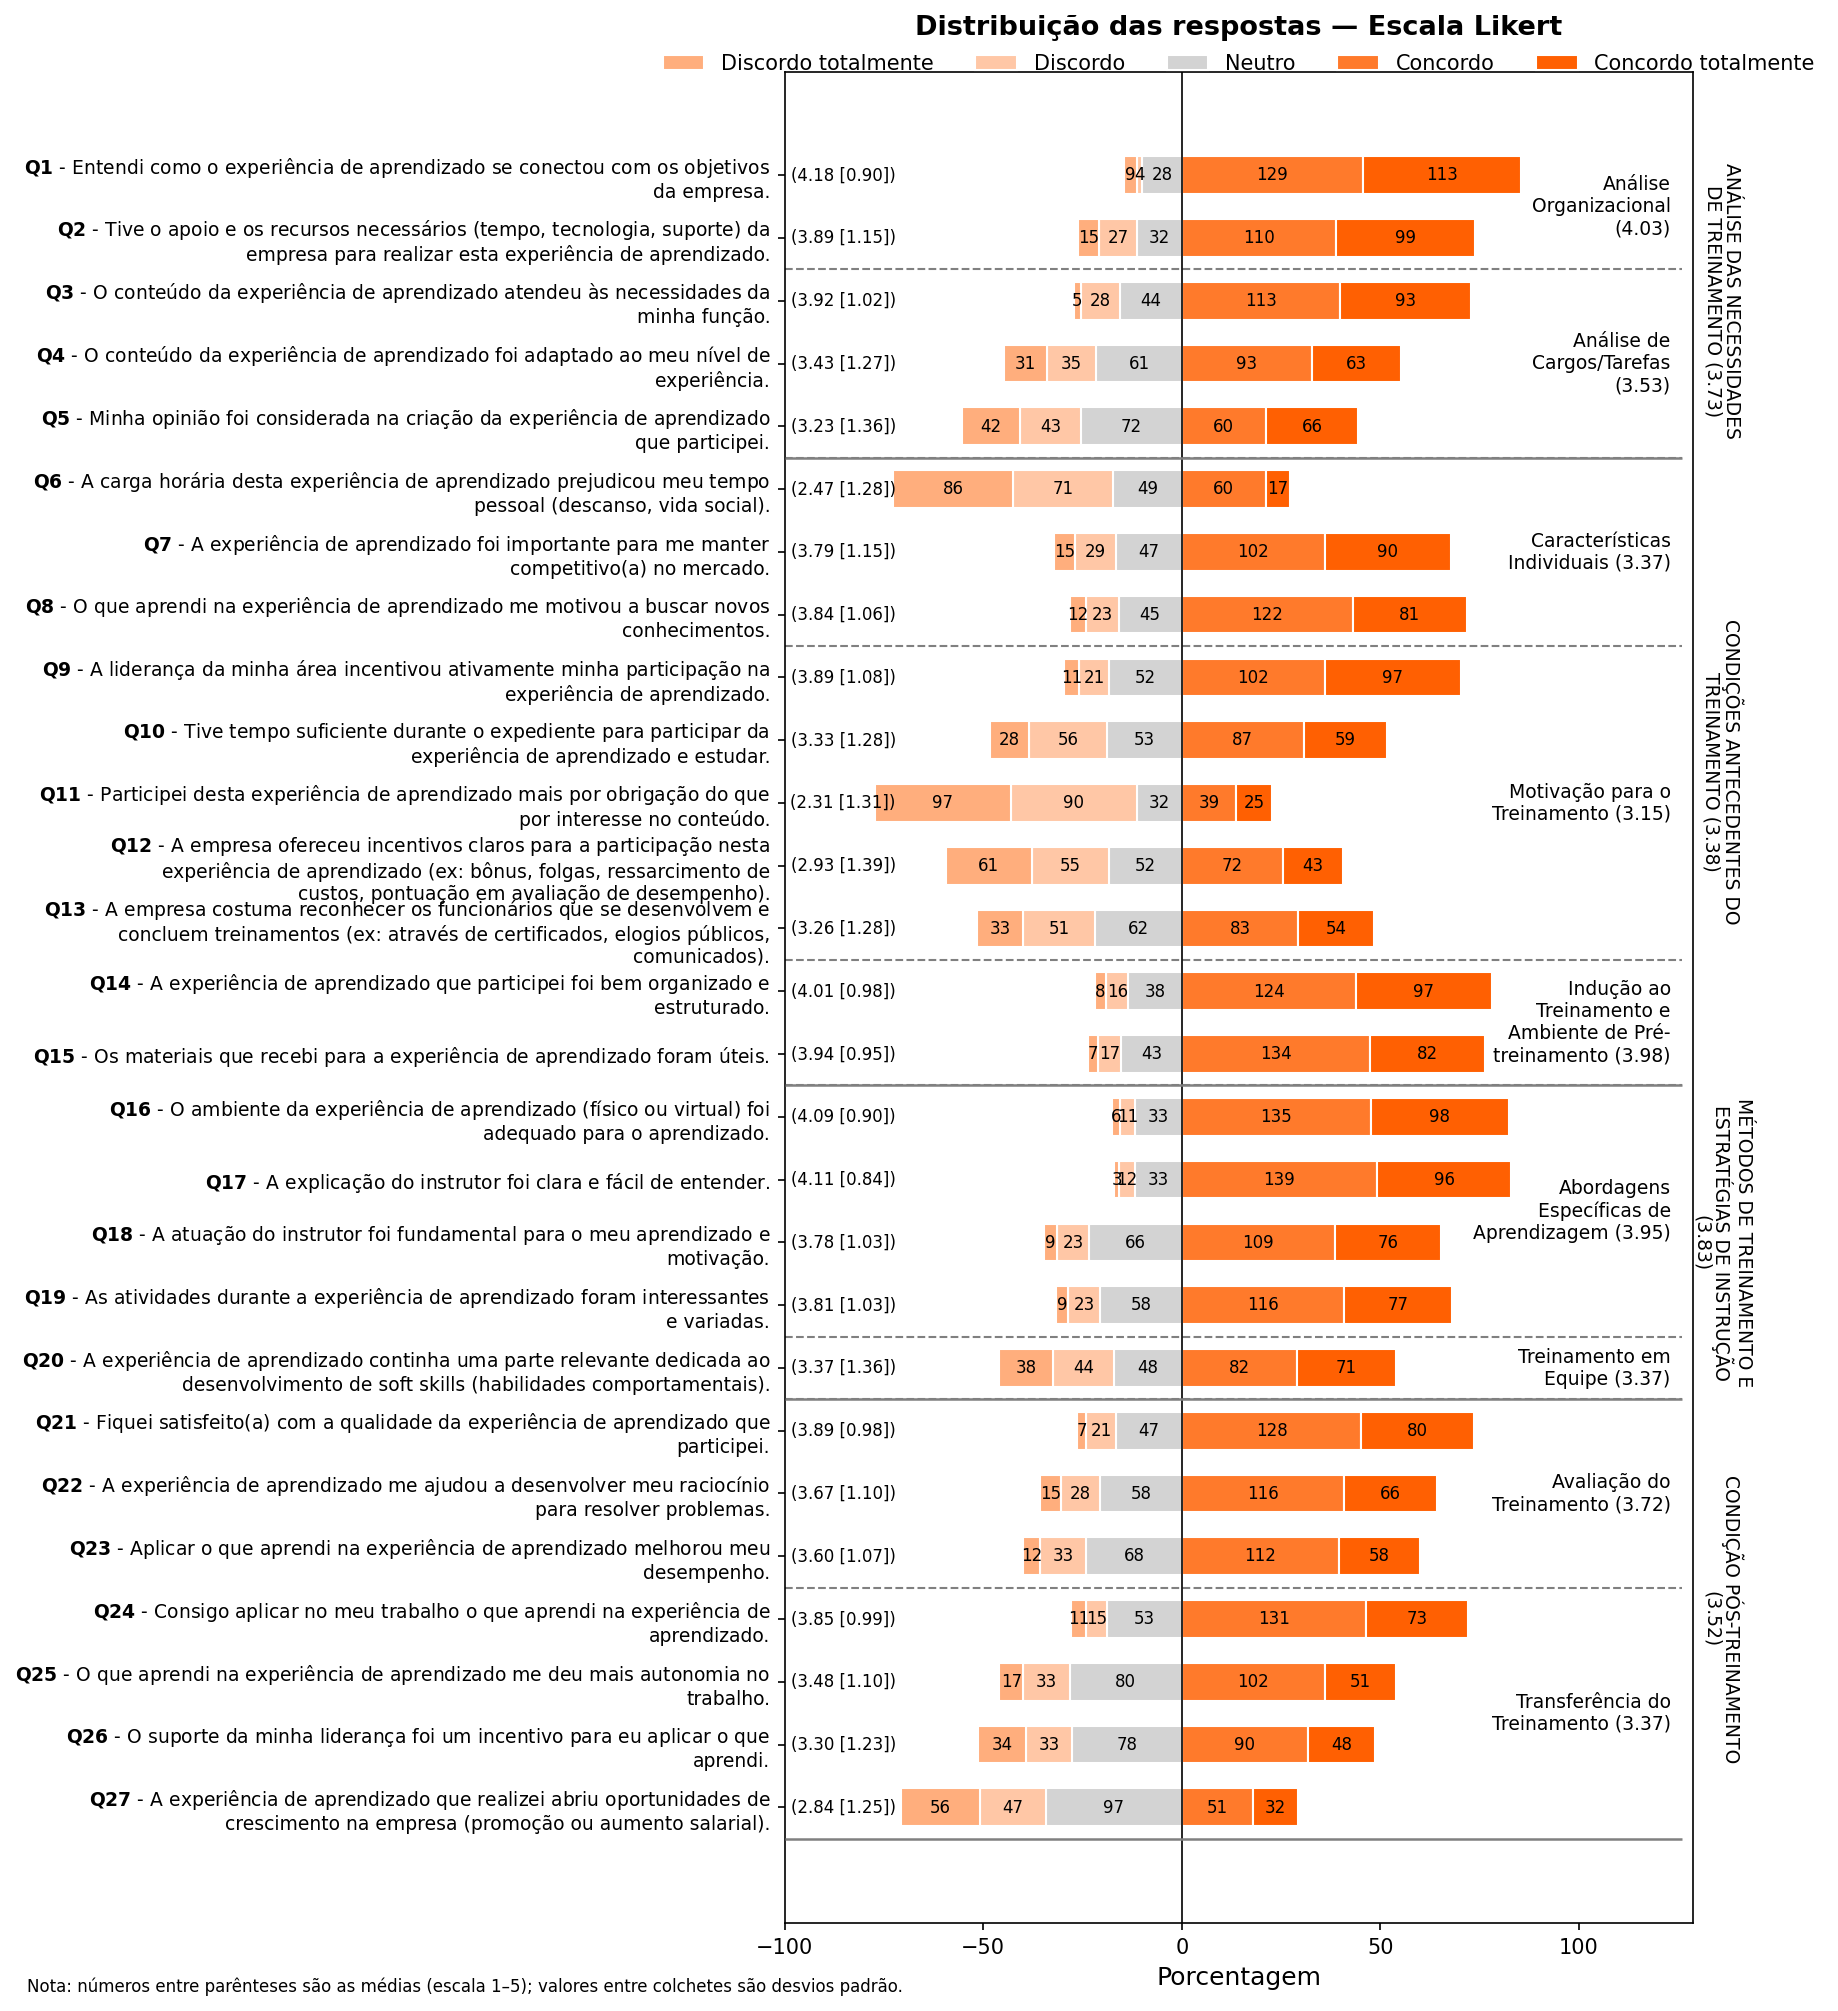
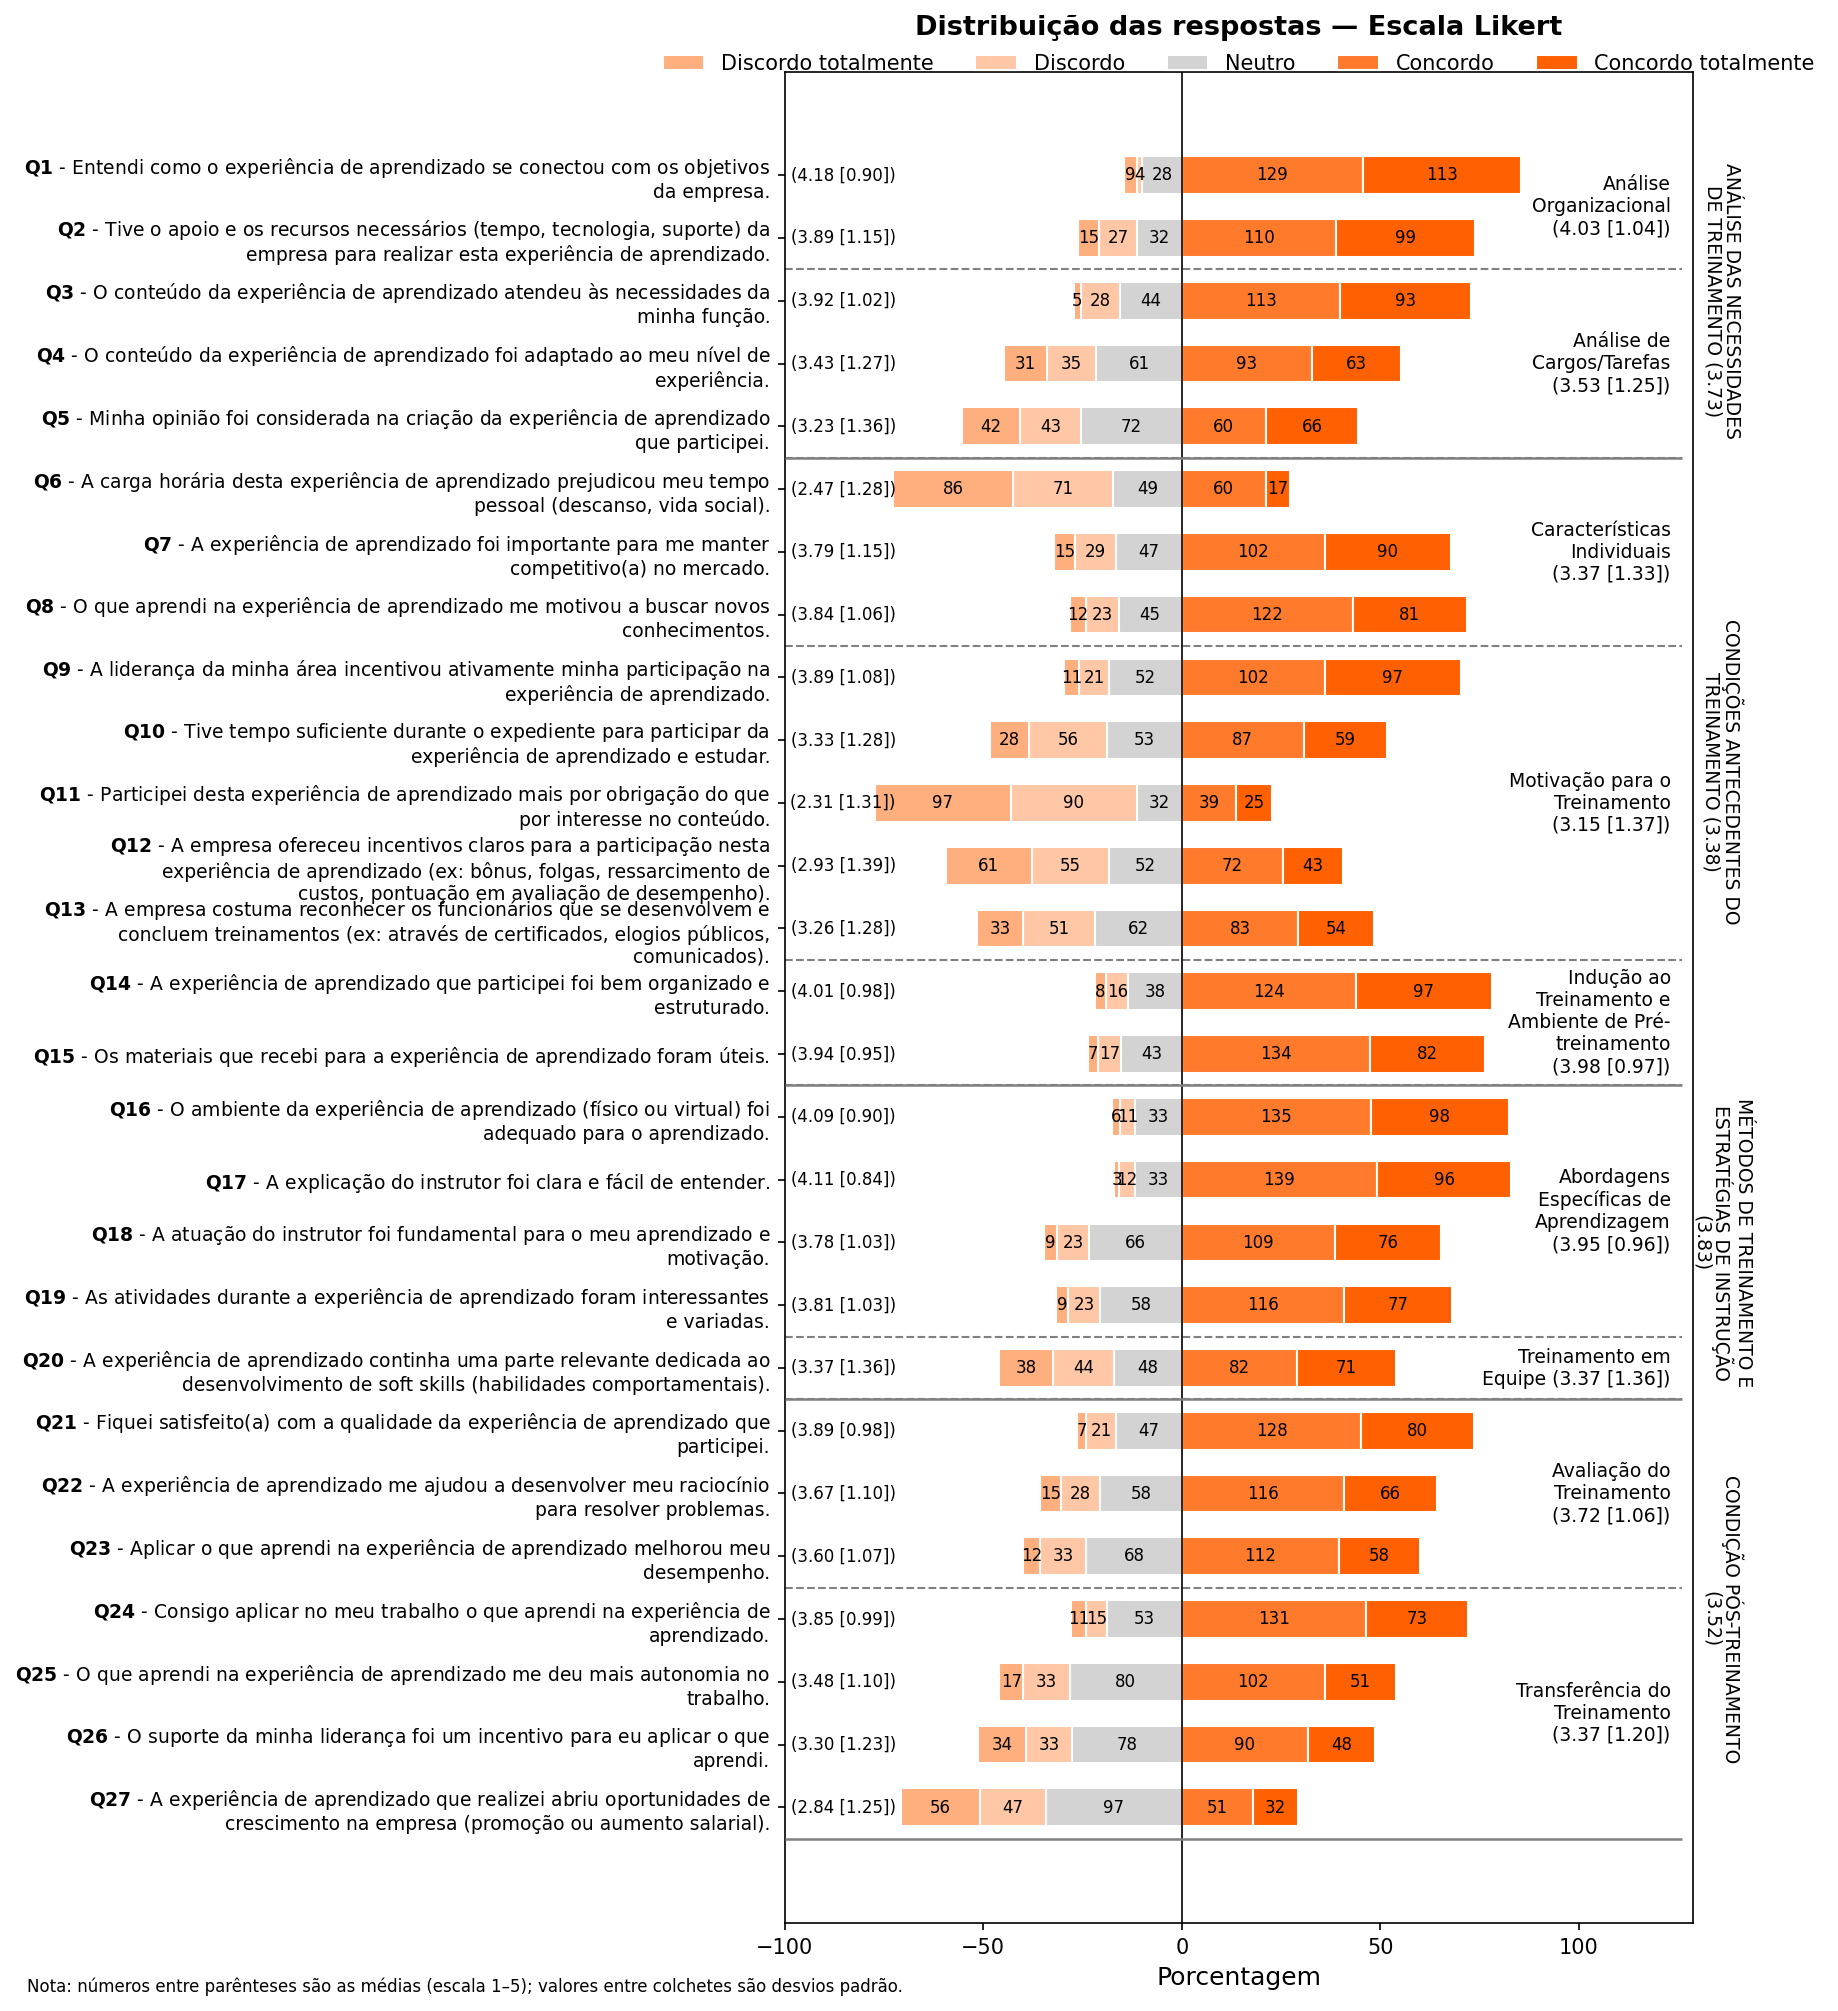
correlação

diff --git a/questions/correlacao.py b/questions/correlacao.py
@@ -1,0 +1,113 @@
+from pathlib import Path
+from typing import Optional
+import numpy as np
+import pandas as pd
+
+try:
+    import matplotlib.pyplot as plt
+    import seaborn as sns
+except Exception:
+    plt = None
+    sns = None
+
+
+def criar_heatmap_correlacao(corr_matrix: pd.DataFrame, out_path: Optional[Path] = None, 
+                               cmap: str = "RdBu_r", figsize: tuple = (14, 12),
+                               annot_fontsize: int = 10, title_fontsize: int = 14) -> Optional[Path]:
+    """
+        Cria heatmap de correlação policórica com rótulos Q1, Q2, ..., sem barra de escala.
+        Método: Bayes modal estimation (Choi, Kim, Chen, & Dannels, 2011).
+         
+        Args:
+            corr_matrix: DataFrame com matriz de correlação policórica (27x27)
+            out_path: caminho para salvar a imagem (default: output/correlacao_heatmap.png)
+            cmap: colormap (default: RdBu_r — azul negativo, vermelho positivo)
+            figsize: tamanho da figura (w, h)
+            annot_fontsize: tamanho da fonte das anotações (default: 10)
+            title_fontsize: tamanho da fonte do título (default: 14)
+    
+    Returns:
+        Path do arquivo salvo ou None se falhar
+    """
+    if plt is None or sns is None:
+        print("matplotlib ou seaborn não disponíveis")
+        return None
+    
+    out_path = Path(out_path) if out_path is not None else Path("output/correlacao_heatmap.png")
+    out_path.parent.mkdir(parents=True, exist_ok=True)
+    
+    # renomear índices/colunas para Q1, Q2, ...
+    n = len(corr_matrix)
+    new_labels = [f"Q{i+1}" for i in range(n)]
+    corr_display = corr_matrix.copy()
+    corr_display.index = new_labels
+    corr_display.columns = new_labels
+    
+    fig, ax = plt.subplots(figsize=figsize)
+    
+    # criar heatmap com anotações, sem cbar
+    sns.heatmap(corr_display, annot=True, fmt=".2f", cmap=cmap, center=0.0,
+                vmin=-1, vmax=1, ax=ax, cbar=False,
+                annot_kws={"fontsize": annot_fontsize},
+                linewidths=0.5, linecolor="white")
+    
+    # ax.set_title("Matriz de Correlação Policórica\n(Bayes Modal Estimation; Choi, Kim, Chen, & Dannels, 2011)", 
+    #              fontsize=title_fontsize, fontweight="bold", pad=20)
+    # ax.set_xlabel("Questões", fontsize=14, fontweight="bold")
+    # ax.set_ylabel("Questões", fontsize=14, fontweight="bold")
+    
+    # ajustar rótulos de eixo
+    ax.set_xticklabels(ax.get_xticklabels(), rotation=0, fontsize=12)
+    ax.set_yticklabels(ax.get_yticklabels(), rotation=0, fontsize=12)
+    
+    plt.tight_layout()
+    fig.savefig(out_path, dpi=300, bbox_inches="tight")
+    plt.close(fig)
+    
+    print(f"Heatmap salvo em: {out_path}")
+    return out_path
+
+
+def gerar_matriz_exemplo() -> pd.DataFrame:
+    """
+    Gera a matriz de correlação de exemplo (27x27) fornecida.
+    """
+    data = [
+        [1.000, 0.509, 0.607, 0.401, 0.338, -0.155, 0.486, 0.440, 0.250, 0.367, -0.258, 0.150, 0.295, 0.492, 0.529, 0.474, 0.424, 0.452, 0.518, 0.331, 0.562, 0.500, 0.410, 0.476, 0.439, 0.272, 0.165],
+        [0.509, 1.000, 0.483, 0.421, 0.303, -0.205, 0.302, 0.302, 0.410, 0.562, -0.203, 0.307, 0.432, 0.581, 0.576, 0.509, 0.417, 0.365, 0.394, 0.353, 0.522, 0.362, 0.338, 0.370, 0.403, 0.408, 0.179],
+        [0.607, 0.483, 1.000, 0.545, 0.552, -0.108, 0.576, 0.568, 0.304, 0.351, -0.422, 0.225, 0.358, 0.468, 0.555, 0.446, 0.457, 0.556, 0.609, 0.547, 0.654, 0.631, 0.606, 0.595, 0.614, 0.411, 0.365],
+        [0.401, 0.421, 0.545, 1.000, 0.620, -0.138, 0.475, 0.512, 0.264, 0.278, -0.286, 0.228, 0.370, 0.430, 0.508, 0.367, 0.355, 0.470, 0.514, 0.476, 0.471, 0.501, 0.450, 0.332, 0.453, 0.429, 0.313],
+        [0.338, 0.303, 0.552, 0.620, 1.000, -0.091, 0.332, 0.412, 0.253, 0.264, -0.282, 0.213, 0.383, 0.338, 0.401, 0.359, 0.349, 0.427, 0.459, 0.557, 0.493, 0.472, 0.377, 0.325, 0.429, 0.397, 0.360],
+        [-0.155, -0.205, -0.108, -0.138, -0.091, 1.000, 0.055, -0.059, -0.109, -0.308, 0.308, 0.098, -0.067, -0.158, -0.106, -0.003, -0.146, -0.040, 0.011, -0.126, -0.094, 0.023, -0.045, -0.031, 0.005, -0.100, 0.210],
+        [0.486, 0.302, 0.576, 0.475, 0.332, 0.055, 1.000, 0.703, 0.375, 0.251, -0.508, 0.332, 0.423, 0.348, 0.540, 0.357, 0.317, 0.466, 0.538, 0.295, 0.608, 0.684, 0.648, 0.541, 0.577, 0.439, 0.488],
+        [0.440, 0.302, 0.568, 0.512, 0.412, -0.059, 0.703, 1.000, 0.275, 0.315, -0.546, 0.268, 0.484, 0.461, 0.627, 0.464, 0.444, 0.595, 0.660, 0.345, 0.721, 0.827, 0.779, 0.643, 0.702, 0.520, 0.554],
+        [0.250, 0.410, 0.304, 0.264, 0.253, -0.109, 0.375, 0.275, 1.000, 0.291, -0.151, 0.331, 0.472, 0.333, 0.343, 0.335, 0.393, 0.302, 0.330, 0.110, 0.334, 0.334, 0.332, 0.363, 0.368, 0.466, 0.223],
+        [0.367, 0.562, 0.351, 0.278, 0.264, -0.308, 0.251, 0.315, 0.291, 1.000, -0.177, 0.388, 0.478, 0.420, 0.444, 0.371, 0.361, 0.378, 0.372, 0.211, 0.440, 0.376, 0.335, 0.419, 0.353, 0.411, 0.284],
+        [-0.258, -0.203, -0.422, -0.286, -0.282, 0.308, -0.508, -0.546, -0.151, -0.177, 1.000, -0.167, -0.218, -0.267, -0.340, -0.208, -0.256, -0.343, -0.409, -0.201, -0.523, -0.480, -0.446, -0.386, -0.387, -0.335, -0.249],
+        [0.150, 0.307, 0.225, 0.228, 0.213, 0.098, 0.332, 0.268, 0.331, 0.388, -0.167, 1.000, 0.502, 0.234, 0.287, 0.279, 0.225, 0.279, 0.286, 0.223, 0.302, 0.398, 0.313, 0.237, 0.294, 0.382, 0.403],
+        [0.295, 0.432, 0.358, 0.370, 0.383, -0.067, 0.423, 0.484, 0.472, 0.478, -0.218, 0.502, 1.000, 0.474, 0.564, 0.480, 0.416, 0.510, 0.534, 0.323, 0.538, 0.470, 0.497, 0.448, 0.507, 0.586, 0.536],
+        [0.492, 0.581, 0.468, 0.430, 0.338, -0.158, 0.348, 0.461, 0.333, 0.420, -0.267, 0.234, 0.474, 1.000, 0.763, 0.735, 0.745, 0.629, 0.611, 0.361, 0.728, 0.558, 0.463, 0.475, 0.479, 0.389, 0.271],
+        [0.529, 0.576, 0.555, 0.508, 0.401, -0.106, 0.540, 0.627, 0.343, 0.444, -0.340, 0.287, 0.564, 0.763, 1.000, 0.725, 0.650, 0.707, 0.730, 0.335, 0.774, 0.632, 0.570, 0.577, 0.576, 0.464, 0.428],
+        [0.474, 0.509, 0.446, 0.367, 0.359, -0.003, 0.357, 0.464, 0.335, 0.371, -0.208, 0.279, 0.480, 0.735, 0.725, 1.000, 0.751, 0.681, 0.679, 0.318, 0.724, 0.569, 0.429, 0.471, 0.497, 0.350, 0.333],
+        [0.424, 0.417, 0.457, 0.355, 0.349, -0.146, 0.317, 0.444, 0.393, 0.361, -0.256, 0.225, 0.416, 0.745, 0.650, 0.751, 1.000, 0.746, 0.665, 0.312, 0.722, 0.559, 0.420, 0.468, 0.435, 0.377, 0.241],
+        [0.452, 0.365, 0.556, 0.470, 0.427, -0.040, 0.466, 0.595, 0.302, 0.378, -0.343, 0.279, 0.510, 0.629, 0.707, 0.681, 0.746, 1.000, 0.837, 0.426, 0.785, 0.714, 0.600, 0.544, 0.611, 0.494, 0.464],
+        [0.518, 0.394, 0.609, 0.514, 0.459, 0.011, 0.538, 0.660, 0.330, 0.372, -0.409, 0.286, 0.534, 0.611, 0.730, 0.679, 0.665, 0.837, 1.000, 0.442, 0.804, 0.735, 0.673, 0.578, 0.672, 0.533, 0.493],
+        [0.331, 0.353, 0.547, 0.476, 0.557, -0.126, 0.295, 0.345, 0.110, 0.211, -0.201, 0.223, 0.323, 0.361, 0.335, 0.318, 0.312, 0.426, 0.442, 1.000, 0.397, 0.456, 0.377, 0.345, 0.414, 0.355, 0.285],
+        [0.562, 0.522, 0.654, 0.471, 0.493, -0.094, 0.608, 0.721, 0.334, 0.440, -0.523, 0.302, 0.538, 0.728, 0.774, 0.724, 0.722, 0.785, 0.804, 0.397, 1.000, 0.806, 0.675, 0.632, 0.653, 0.548, 0.470],
+        [0.500, 0.362, 0.631, 0.501, 0.472, 0.023, 0.684, 0.827, 0.334, 0.376, -0.480, 0.398, 0.470, 0.558, 0.632, 0.569, 0.559, 0.714, 0.735, 0.456, 0.806, 1.000, 0.758, 0.645, 0.739, 0.577, 0.581],
+        [0.410, 0.338, 0.606, 0.450, 0.377, -0.045, 0.648, 0.779, 0.332, 0.335, -0.446, 0.313, 0.497, 0.463, 0.570, 0.429, 0.420, 0.600, 0.673, 0.377, 0.675, 0.758, 1.000, 0.828, 0.884, 0.633, 0.607],
+        [0.476, 0.370, 0.595, 0.332, 0.325, -0.031, 0.541, 0.643, 0.363, 0.419, -0.386, 0.237, 0.448, 0.475, 0.577, 0.471, 0.468, 0.544, 0.578, 0.345, 0.632, 0.645, 0.828, 1.000, 0.800, 0.533, 0.483],
+        [0.439, 0.403, 0.614, 0.453, 0.429, 0.005, 0.577, 0.702, 0.368, 0.353, -0.387, 0.294, 0.507, 0.479, 0.576, 0.497, 0.435, 0.611, 0.672, 0.414, 0.653, 0.739, 0.884, 0.800, 1.000, 0.684, 0.631],
+        [0.272, 0.408, 0.411, 0.429, 0.397, -0.100, 0.439, 0.520, 0.466, 0.411, -0.335, 0.382, 0.586, 0.389, 0.464, 0.350, 0.377, 0.494, 0.533, 0.355, 0.548, 0.577, 0.633, 0.533, 0.684, 1.000, 0.625],
+        [0.165, 0.179, 0.365, 0.313, 0.360, 0.210, 0.488, 0.554, 0.223, 0.284, -0.249, 0.403, 0.536, 0.271, 0.428, 0.333, 0.241, 0.464, 0.493, 0.285, 0.470, 0.581, 0.607, 0.483, 0.631, 0.625, 1.000],
+    ]
+    
+    df = pd.DataFrame(data, index=[f"V{i+1}" for i in range(27)],
+                      columns=[f"V{i+1}" for i in range(27)])
+    return df
+
+
+if __name__ == "__main__":
+    # gerar e plotar
+    corr = gerar_matriz_exemplo()
+    criar_heatmap_correlacao(corr, out_path=Path("output/correlacao_heatmap.png"))

diff --git a/questions/tratamento_AFE.py b/questions/tratamento_AFE.py
@@ -108,6 +108,7 @@ def process(csv_path: Optional[str] = None, out_dat: Optional[str] = None,
         "Tive o apoio e os recursos necessários (tempo, tecnologia, suporte) da empresa para realizar esta experiência de aprendizado.",
 
         # Job/Task Analysis
+        # "Soube quem na sua empresa foi o responsável por organizar a experiência de aprendizado.",
         "O conteúdo da experiência de aprendizado atendeu às necessidades da minha função.",
         "O conteúdo da experiência de aprendizado foi adaptado ao meu nível de experiência.",
         "Minha opinião foi considerada na criação da experiência de aprendizado que participei.",
@@ -161,12 +162,26 @@ def process(csv_path: Optional[str] = None, out_dat: Optional[str] = None,
     used = set()
     for label in desired_order:
         nl = _normalize_text(label)
-        if nl in norm_to_col and norm_to_col[nl] not in used:
-            ordered.append(norm_to_col[nl])
-            used.add(norm_to_col[nl])
+        if nl in norm_to_col:
+            col = norm_to_col[nl]
+            if col not in used:
+                ordered.append(col)
+                used.add(col)
+                print(f"  ✓ Matched: '{label[:50]}...' -> {col}")
+            else:
+                print(f"  ⚠ Duplicado (já usado): '{label[:50]}...'")
+        else:
+            print(f"  ✗ NÃO ENCONTRADO: '{label[:50]}...'")
+            print(f"     Procurou norm: '{nl}'")
+            # debug: mostrar os 3 mais similares
+            from difflib import SequenceMatcher
+            similar = sorted(norm_to_col.keys(), key=lambda k: SequenceMatcher(None, nl, k).ratio(), reverse=True)[:3]
+            print(f"     Similares: {similar}")
+
     # acrescentar quaisquer colunas restantes não listadas em desired_order, preservando ordem original
     for c in likert_cols:
         if c not in used:
+            print(f"  + Adicionada ao final (não em desired_order): {c}")
             ordered.append(c)
     likert_cols = ordered
     print(f"Ordem Likert aplicada: {len(likert_cols)} colunas (as não listadas em desired_order foram adicionadas ao final).")

diff --git a/questions/likert.py b/questions/likert.py
@@ -585,9 +585,26 @@ def analyze_likert(df: pd.DataFrame, out_dir: Optional[Path] = None) -> Dict[str
             # calcular média e adicionar ao label (igual extra_divisions)
             label_display = str(sub)
             mean_val = _calculate_likert_mean(sorted(idxs), counts, order)
+            # calcular desvio padrão
+            values_list = []
+            for idx in sorted(idxs):
+                if idx < len(counts):
+                    row = counts.iloc[idx]
+                    resp_map = {order[i]: i+1 for i in range(min(5, len(order)))}
+                    for resp_label, val_num in resp_map.items():
+                        try:
+                            c = float(row.get(resp_label, 0) or 0)
+                            for _ in range(int(c)):
+                                values_list.append(val_num)
+                        except Exception:
+                            pass
+            if len(values_list) > 1:
+                std_val = _np.std(values_list, ddof=1)
+            else:
+                std_val = 0.0
             if mean_val is not None:
-                label_display = f"{sub} ({mean_val:.2f})"
-        
+                label_display = f"{sub} ({mean_val:.2f}\u00A0[{std_val:.2f}])"
+         
             wrapped_label = "\n".join(wrap(label_display, width=20))
             ax.text(x_text_base+8, y_center, wrapped_label, ha="right", va="center", rotation=0,
                     fontsize=9, color="black", zorder=5)
